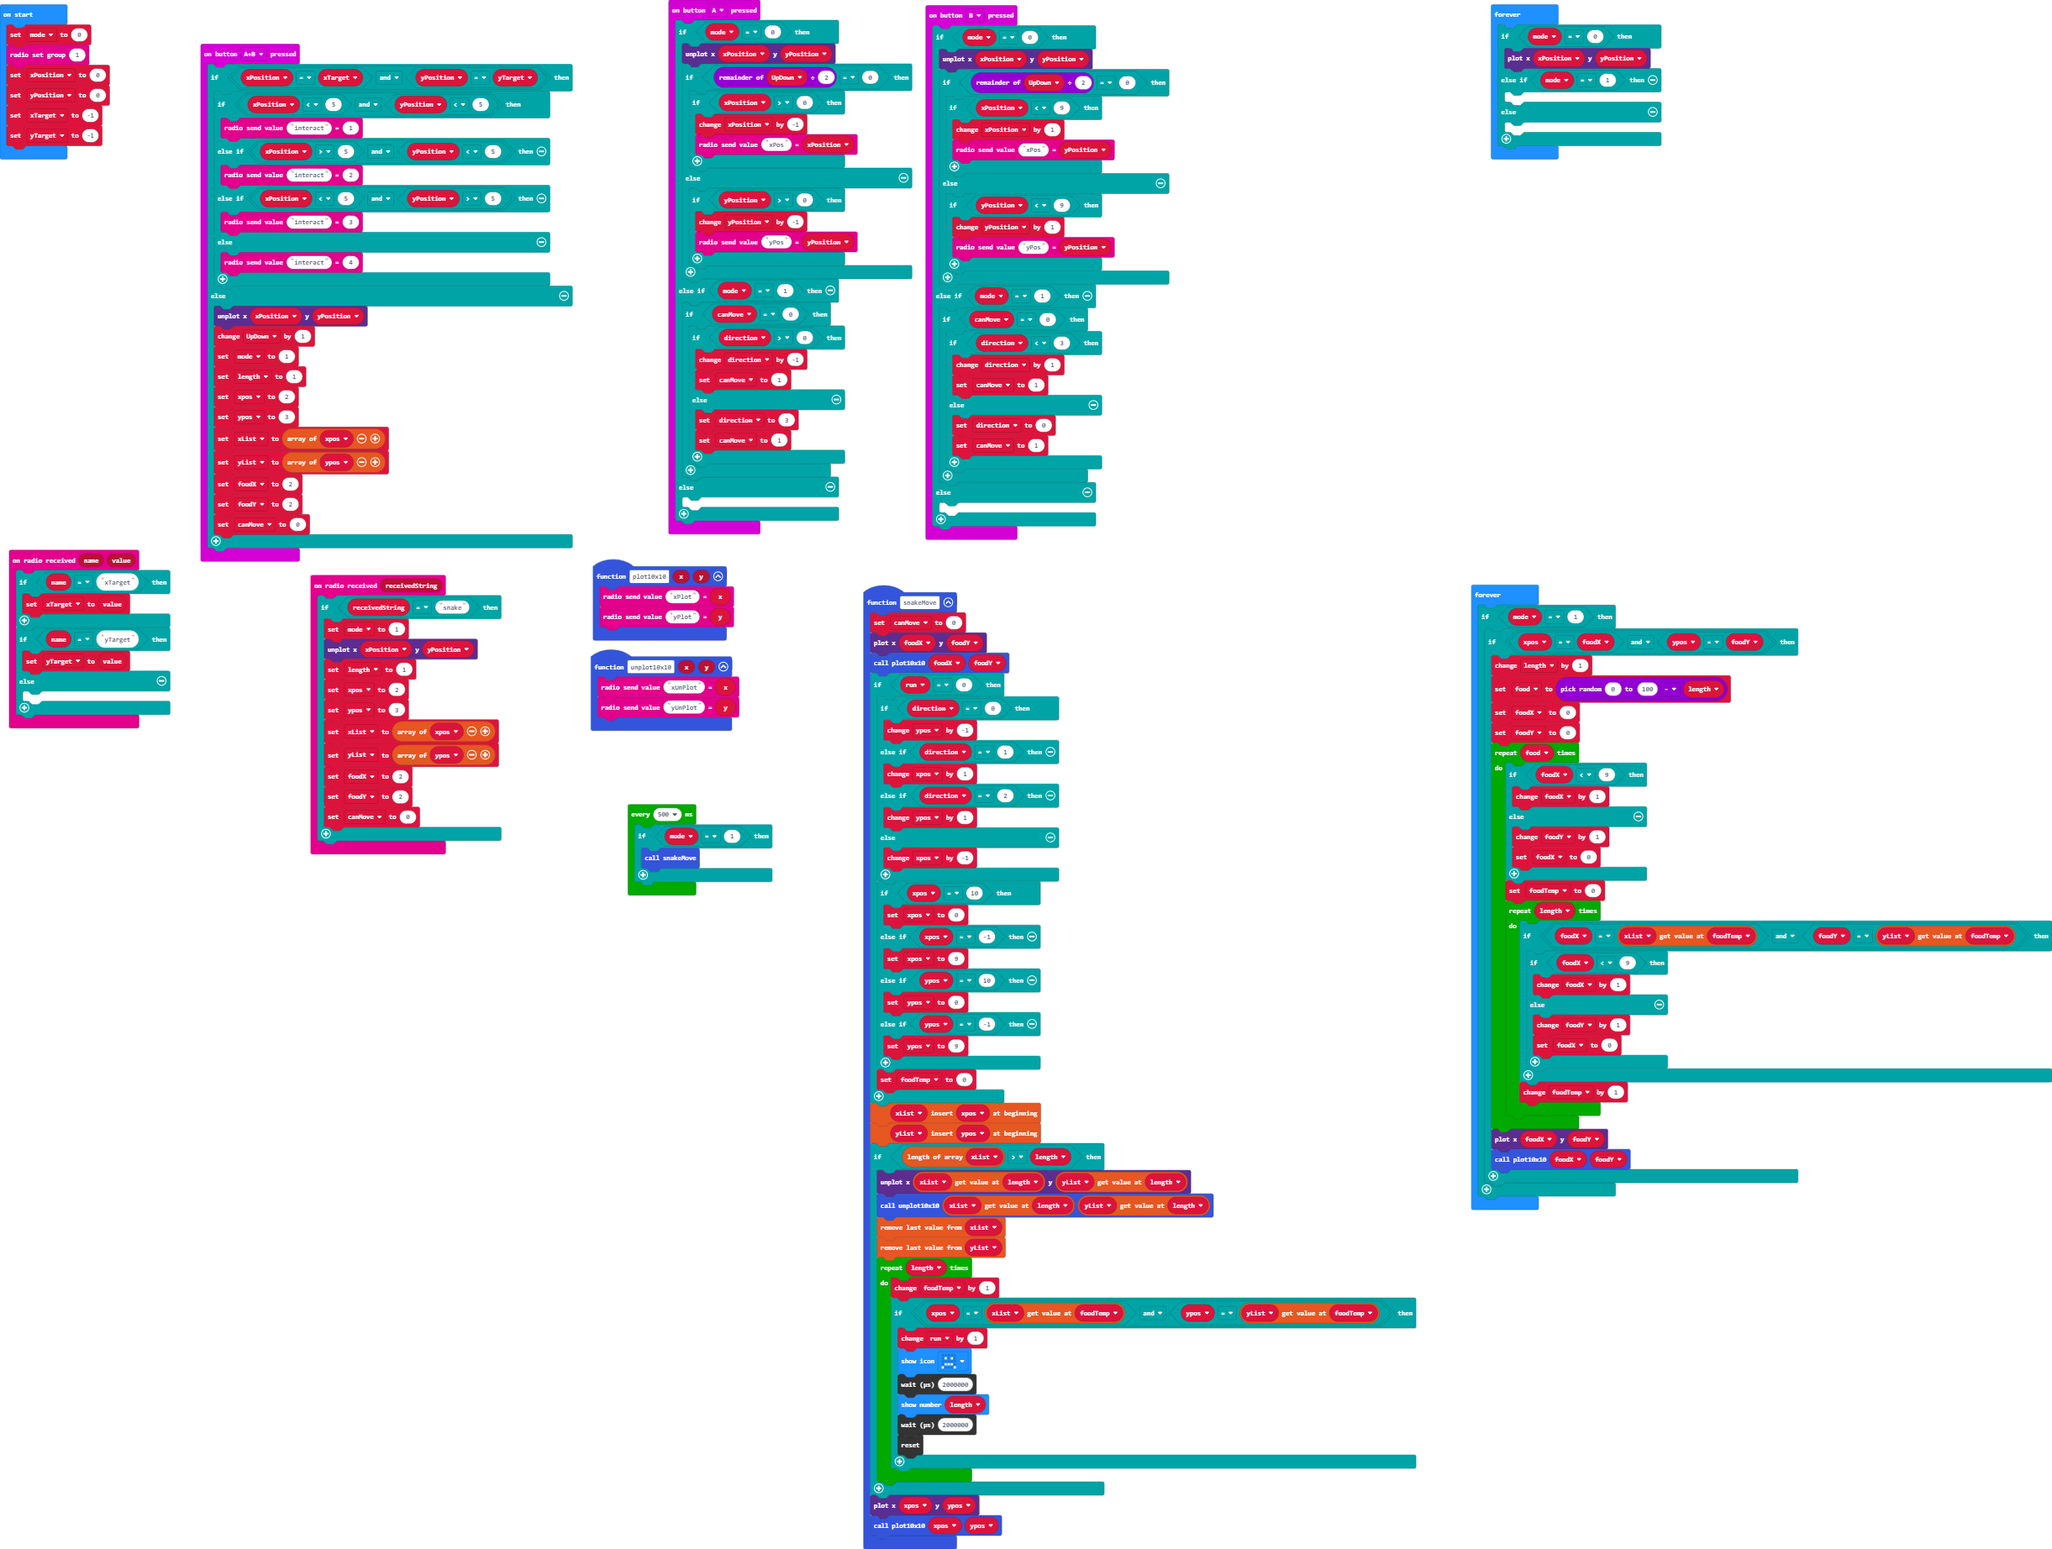
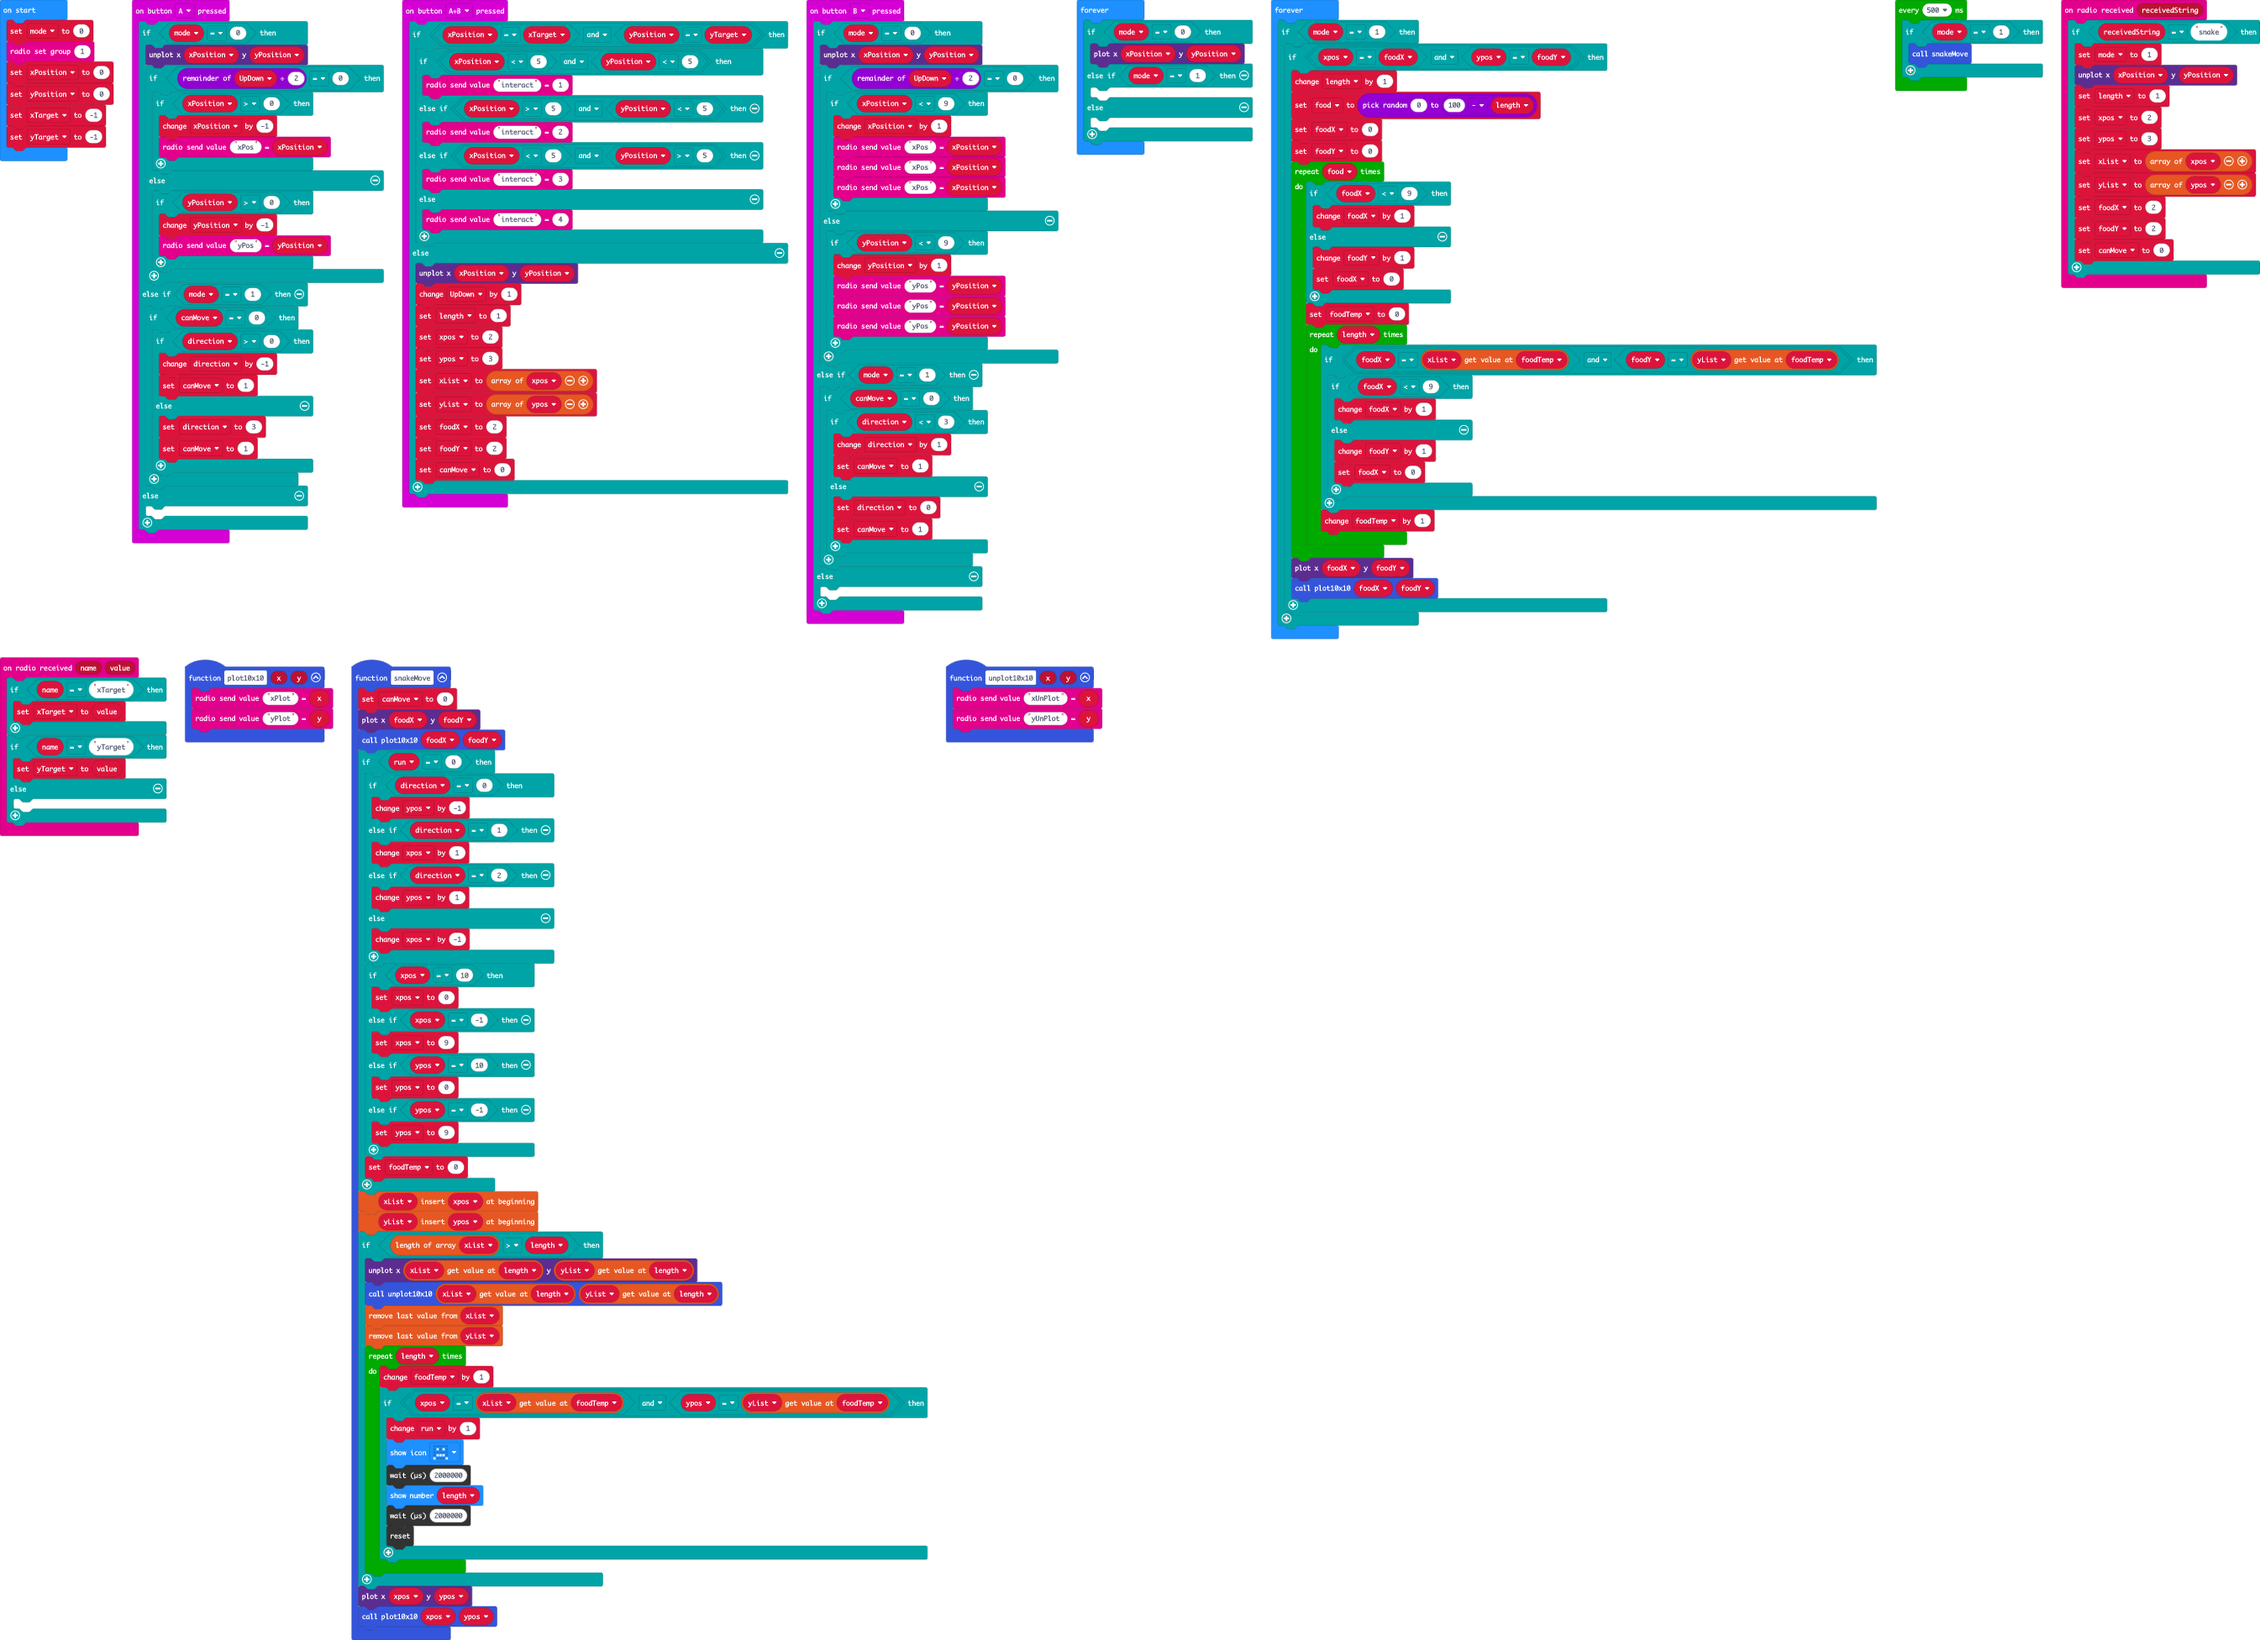
Update main.blocks, main.ts

diff --git a/main.ts b/main.ts
@@ -44,7 +44,6 @@ input.onButtonPressed(Button.AB, function () {
     } else {
         led.unplot(xPosition, yPosition)
         UpDown += 1
-        mode = 1
         length = 1
         xpos = 2
         ypos = 3
@@ -75,11 +74,15 @@ input.onButtonPressed(Button.B, function () {
         if (UpDown % 2 == 0) {
             if (xPosition < 9) {
                 xPosition += 1
-                radio.sendValue("xPos", yPosition)
+                radio.sendValue("xPos", xPosition)
+                radio.sendValue("xPos", xPosition)
+                radio.sendValue("xPos", xPosition)
             }
         } else {
             if (yPosition < 9) {
                 yPosition += 1
+                radio.sendValue("yPos", yPosition)
+                radio.sendValue("yPos", yPosition)
                 radio.sendValue("yPos", yPosition)
             }
         }
